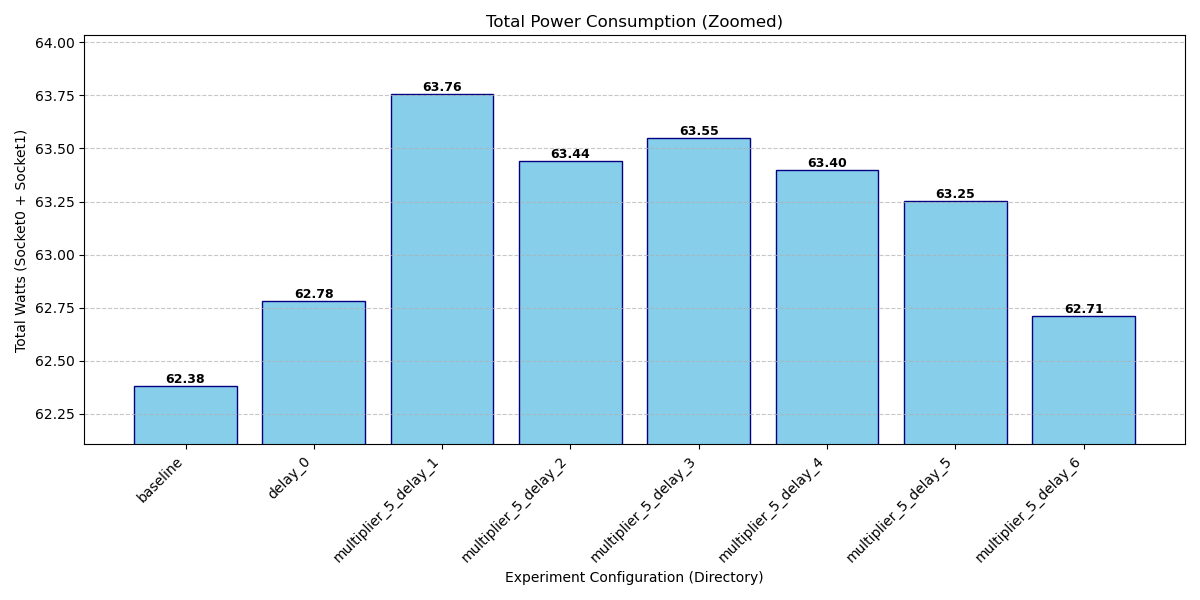
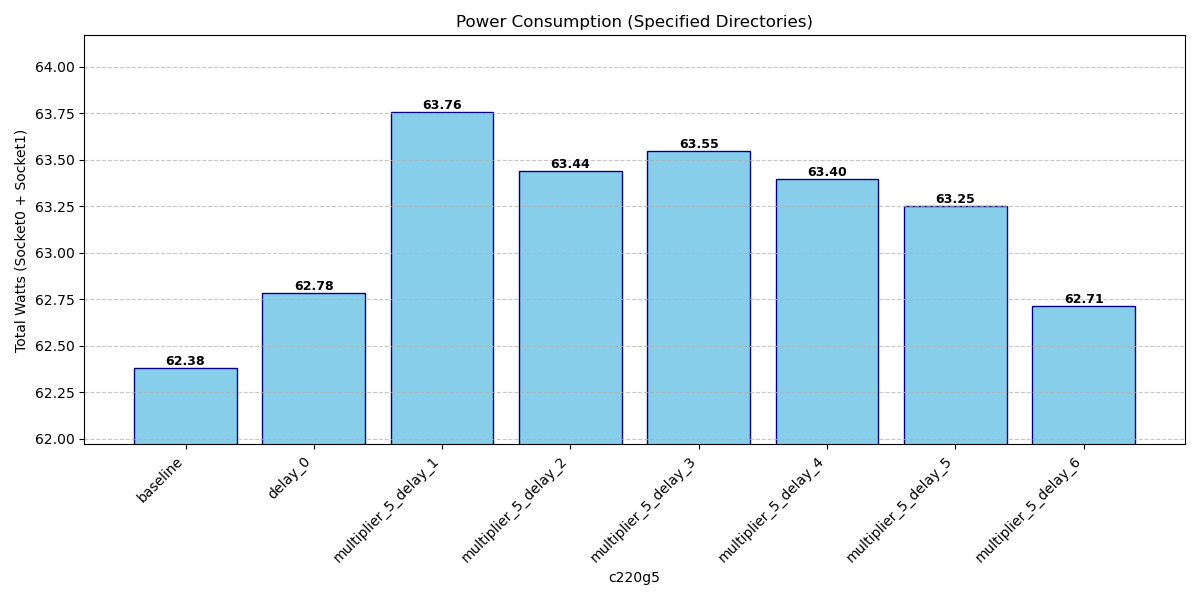
add c220g5-skylake power consumption result

diff --git a/draw_power_consumption.py b/draw_power_consumption.py
@@ -1,4 +1,4 @@
-mport os
+import os
 import glob
 import sys
 import matplotlib.pyplot as plt
